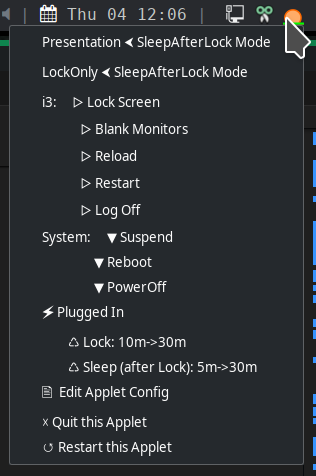
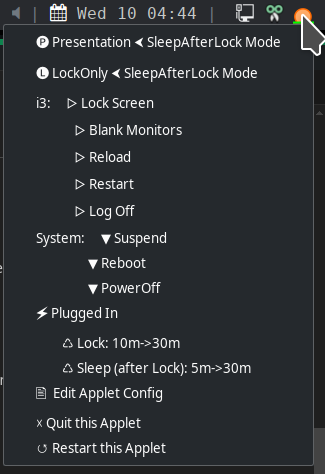
tweaks ... start of pyinstaller (not working)

diff --git a/src/pwr_tray/main.py b/src/pwr_tray/main.py
@@ -28,6 +28,11 @@ TODO:
  - add dimming controls (only if on battery)
  - add alternative lock/sleep (only if on battery)
  - add shutdown if low battery
+ 
+qdbus org.kde.KWin /Scripting org.kde.kwin.Scripting.runScript "$(cat idle_time.js)"
+var idleTime = workspace.readProperty("org.kde.kwin.idleTime", "idleTime");
+print("Idle time: " + idleTime + " milliseconds");
+
 
 """
 # pylint: disable=invalid-name,wrong-import-position,missing-function-docstring
@@ -673,17 +678,17 @@ class InhIndicator:
                 menu.append(item)
 
         if self.mode not in ('Presentation',):
-            item = gtk.MenuItem(label=f'Presentation ⮜ {self.mode} Mode')
+            item = gtk.MenuItem(label=f'🅟 Presentation ⮜ {self.mode} Mode')
             item.connect('activate', self.enable_presentation_mode)
             menu.append(item)
 
         if self.mode not in ('LockOnly',):
-            item = gtk.MenuItem(label=f'LockOnly ⮜ {self.mode} Mode')
+            item = gtk.MenuItem(label=f'🅛 LockOnly ⮜ {self.mode} Mode')
             item.connect('activate', self.enable_nosleep_mode)
             menu.append(item)
 
         if self.mode not in ('SleepAfterLock',):
-            item = gtk.MenuItem(label=f'SleepAfterLock ⮜ {self.mode} Mode')
+            item = gtk.MenuItem(label=f'🅢 SleepAfterLock ⮜ {self.mode} Mode')
             item.connect('activate', self.enable_normal_mode)
             menu.append(item)
 

diff --git a/README.md b/README.md
@@ -1,13 +1,6 @@
 # pwr-tray
 A GTK Tray Applet for Power/Energy Saving and System/DE Controls; currently supported/tested DEs are:
-* i3wm
-* swaywm
-* KDE on X11
-
-In the plans are:
-* Support for KDE on Wayland, Gnome on X11, and Gnome on Wayland.
-* And, imaginably, an AppImage that bundles all the system requirements since pip/pipx
-does not deal with those.
+* i3wm, swaywm, and KDE on X11
 
 ---
 
@@ -54,7 +47,7 @@ does not deal with those.
 
 ---
 
-# HowTo Configure pwr-tray
+### HowTo Configure pwr-tray
 - When the program is started w/o a `config.ini`, then it is created with defaults.
 - It has three sections:
     * **Settings**: The settings for when plugged in.  Missing/invalid settings are inherited from the defaults. Here are the defaults:
@@ -77,7 +70,7 @@ it is harder to know the system state. If you have issues with the monitors
 failing to sleep or the system cannot wake when the monitors are off, then
 avoid the `turn_off_monitor` feature.
 
-### Tray Menu 
+## Tray Menu 
 
 Notes:
 * `pwr-tray` changes directory to `~/.config/pwr-tray`.
@@ -94,9 +87,9 @@ Notes:
     * **Musical Notes**: Inhibited when playing media or by other inhibitors.
 - **NOTE**: when in LoBattery, SleepAfterLock is in effect.
   The icon will change per your selection and the battery state.
-
-![pwr-tray-screenshot](https://github.com/joedefen/pwr-tray/blob/main/images/pwr-tray-screenshot.png?raw=true)
-
+---
+* ![pwr-tray-screenshot](https://github.com/joedefen/pwr-tray/blob/main/images/pwr-tray-screenshot.png?raw=true)
+---
 Choose from three *major power modes* (to control the effects of timeouts):
 - **Presentation ⮜** -  Keeps the screen unlocked/on and system up.
 - **LockOnly ⮜** - Keeps the system up, but the screens may lock.
